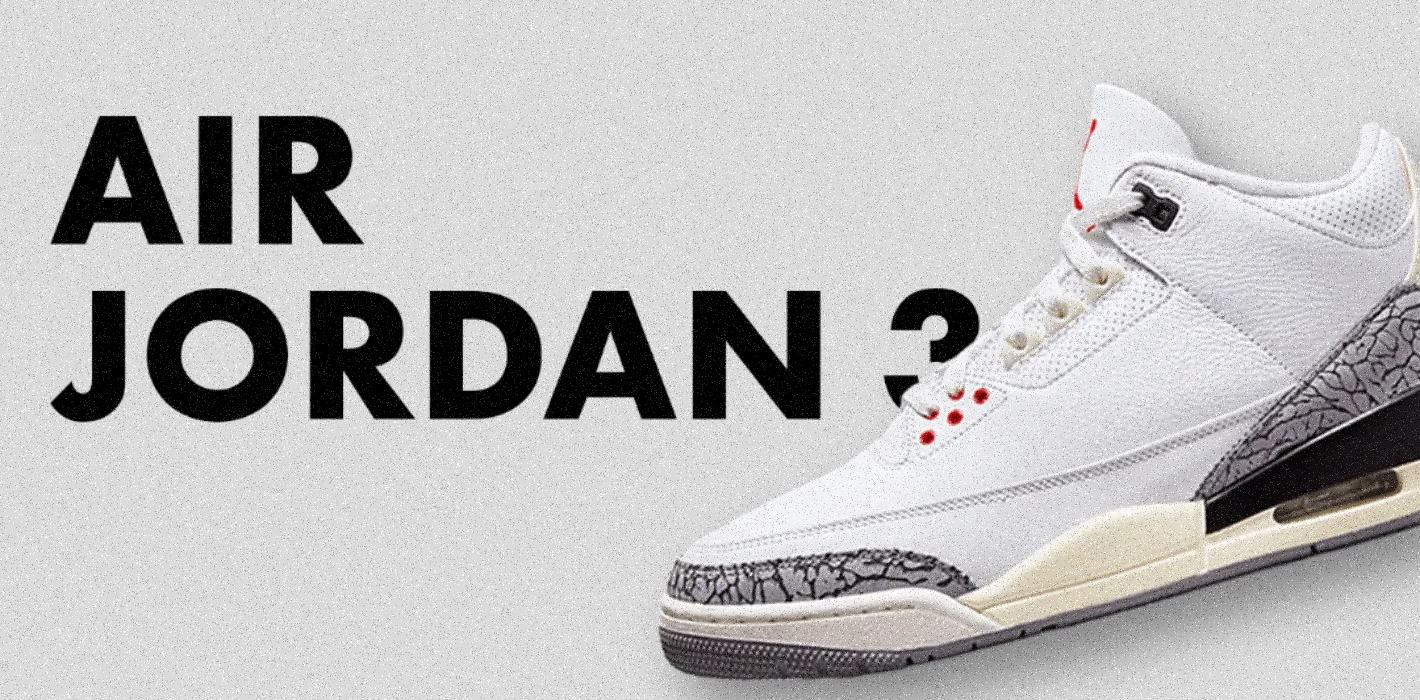
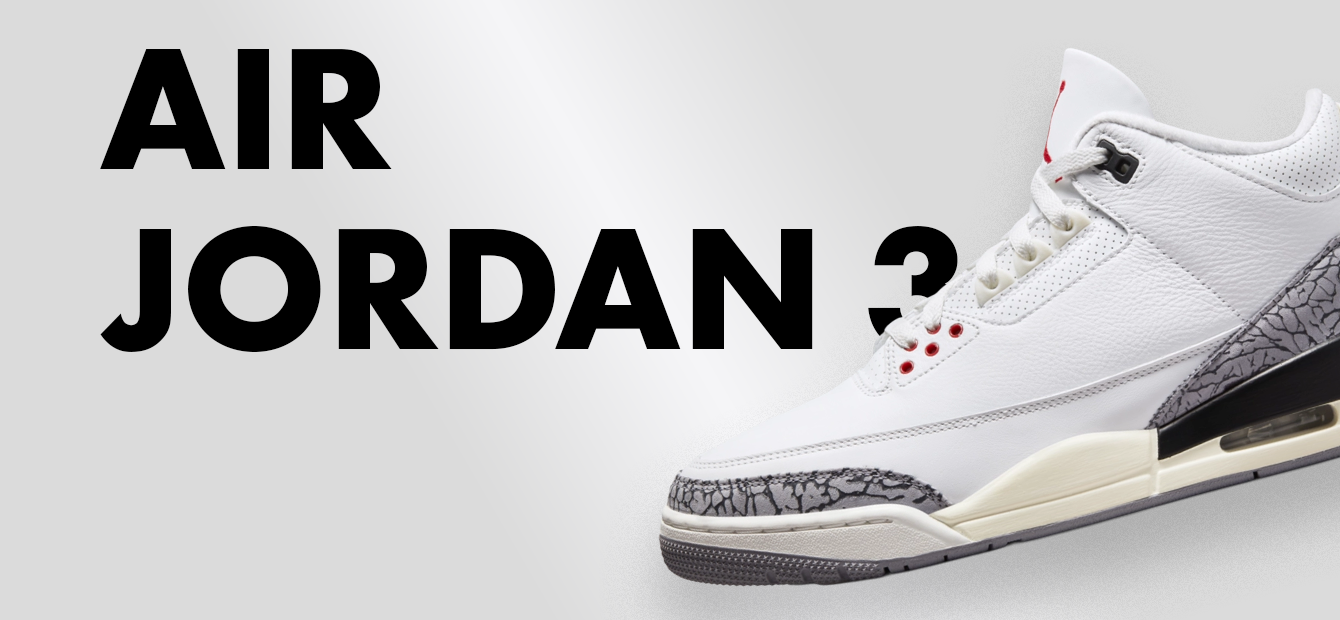
fix img hero responsive closure

Changed region(s): [[0.0306, 0.0, 1.0, 1.0]]

diff --git a/nike-off-white.html b/nike-off-white.html
@@ -46,7 +46,11 @@
             </nav>
             <section>
                 <div class="hero">
-                    <img src="img/hero/nike-off-white-hero.png" alt="">
+                    <img src="img/hero/nike-off-white-hero.png" alt="" class="hero-max">
+                    <img src="img/hero/hero-1240/nike-off-white-hero-1240.png" alt="" class="hero-1240">
+                    <img src="img/hero/hero-1000/nike-off-white-hero-1000.png" alt="" class="hero-1000">
+                    <img src="img/hero/hero-680/nike-off-white-hero-680.png" alt="" class="hero-680">
+                    <img src="img/hero/hero-460/nike-off-white-hero-460.png" alt="" class="hero-460">
                 </div>
             </section>
         </header>

diff --git a/nike-fragment.html b/nike-fragment.html
@@ -46,7 +46,11 @@
             </nav>
             <section>
                 <div class="hero">
-                    <img src="img/hero/nike-fragment-hero.png" alt="">
+                    <img src="img/hero/nike-fragment-hero.png" alt="" class="hero-max">
+                    <img src="img/hero/hero-1240/nike-fragment-hero-1240.png" alt="" class="hero-1240">
+                    <img src="img/hero/hero-1000/nike-fragment-hero-1000.png" alt="" class="hero-1000">
+                    <img src="img/hero/hero-680/nike-fragment-hero-680.png" alt="" class="hero-680">
+                    <img src="img/hero/hero-460/nike-fragment-hero-460.png" alt="" class="hero-460">
                 </div>
             </section>
         </header>

diff --git a/air-jordan-1.html b/air-jordan-1.html
@@ -46,7 +46,11 @@
             </nav>
             <section>
                 <div class="hero">
-                    <img src="img/hero/air-jordan-1-hero.png" alt="">
+                    <img src="img/hero/air-jordan-1-hero.png" alt="" class="hero-max">
+                    <img src="img/hero/hero-1240/air-jordan-1-hero-1240.png" alt="" class="hero-1240">
+                    <img src="img/hero/hero-1000/air-jordan-1-hero-1000.png" alt="" class="hero-1000">
+                    <img src="img/hero/hero-680/air-jordan-1-hero-680.png" alt="" class="hero-680">
+                    <img src="img/hero/hero-460/air-jordan-1-hero-460.png" alt="" class="hero-460">
                 </div>
             </section>
         </header>

diff --git a/air-jordan-3.html b/air-jordan-3.html
@@ -46,7 +46,11 @@
             </nav>
             <section>
                 <div class="hero">
-                    <img src="img/hero/air-jordan-3-hero.png" alt="">
+                    <img src="img/hero/air-jordan-3-hero.png" alt="" class="hero-max">
+                    <img src="img/hero/hero-1240/air-jordan-3-hero-1240.png" alt="" class="hero-1240">
+                    <img src="img/hero/hero-1000/air-jordan-3-hero-1000.png" alt="" class="hero-1000">
+                    <img src="img/hero/hero-680/air-jordan-3-hero-680.png" alt="" class="hero-680">
+                    <img src="img/hero/hero-460/air-jordan-3-hero-460.png" alt="" class="hero-460">
                 </div>
             </section>
         </header>

diff --git a/air-jordan-4.html b/air-jordan-4.html
@@ -46,7 +46,11 @@
             </nav>
             <section>
                 <div class="hero">
-                    <img src="img/hero/air-jordan-4-hero.png" alt="">
+                    <img src="img/hero/air-jordan-4-hero.png" alt="" class="hero-max">
+                    <img src="img/hero/hero-1240/air-jordan-4-hero-1240.png" alt="" class="hero-1240">
+                    <img src="img/hero/hero-1000/air-jordan-4-hero-1000.png" alt="" class="hero-1000">
+                    <img src="img/hero/hero-680/air-jordan-4-hero-680.png" alt="" class="hero-680">
+                    <img src="img/hero/hero-460/air-jordan-4-hero-460.png" alt="" class="hero-460">
                 </div>
             </section>
         </header>

diff --git a/nike-supreme.html b/nike-supreme.html
@@ -46,7 +46,11 @@
             </nav>
             <section>
                 <div class="hero">
-                    <img src="img/hero/nike-supreme-hero.png" alt="">
+                    <img src="img/hero/nike-supreme-hero.png" alt="" class="hero-max">
+                    <img src="img/hero/hero-1240/nike-supreme-hero-1240.png" alt="" class="hero-1240">
+                    <img src="img/hero/hero-1000/nike-supreme-hero-1000.png" alt="" class="hero-1000">
+                    <img src="img/hero/hero-680/nike-supreme-hero-680.png" alt="" class="hero-680">
+                    <img src="img/hero/hero-460/nike-supreme-hero-460.png" alt="" class="hero-460">
                 </div>
             </section>
         </header>

diff --git a/air-force-1.html b/air-force-1.html
@@ -46,7 +46,11 @@
             </nav>
             <section>
                 <div class="hero">
-                    <img src="img/hero/air-force-1-hero.png" alt="">
+                    <img src="img/hero/air-force-1-hero.png" alt="" class="hero-max">
+                    <img src="img/hero/hero-1240/air-force-1-hero-1240.png" alt="" class="hero-1240">
+                    <img src="img/hero/hero-1000/air-force-1-hero-1000.png" alt="" class="hero-1000">
+                    <img src="img/hero/hero-680/air-force-1-hero-680.png" alt="" class="hero-680">
+                    <img src="img/hero/hero-460/air-force-1-hero-460.png" alt="" class="hero-460">
                 </div>
             </section>
         </header>

diff --git a/nike-ambush.html b/nike-ambush.html
@@ -46,7 +46,11 @@
             </nav>
             <section>
                 <div class="hero">
-                    <img src="img/hero/nike-ambush-hero.png" alt="">
+                    <img src="img/hero/nike-ambush-hero.png" alt="" class="hero-max">
+                    <img src="img/hero/hero-1240/nike-ambush-hero-1240.png" alt="" class="hero-1240">
+                    <img src="img/hero/hero-1000/nike-ambush-hero-1000.png" alt="" class="hero-1000">
+                    <img src="img/hero/hero-680/nike-ambush-hero-680.png" alt="" class="hero-680">
+                    <img src="img/hero/hero-460/nike-ambush-hero-460.png" alt="" class="hero-460">
                 </div>
             </section>
         </header>

diff --git a/nike-travis.html b/nike-travis.html
@@ -46,7 +46,11 @@
             </nav>
             <section>
                 <div class="hero">
-                    <img src="img/hero/nike-travis-hero.png" alt="">
+                    <img src="img/hero/nike-travis-hero.png" alt="" class="hero-max">
+                    <img src="img/hero/hero-1240/nike-travis-hero-1240.png" alt="" class="hero-1240">
+                    <img src="img/hero/hero-1000/nike-travis-hero-1000.png" alt="" class="hero-1000">
+                    <img src="img/hero/hero-680/nike-travis-hero-680.png" alt="" class="hero-680">
+                    <img src="img/hero/hero-460/nike-travis-hero-460.png" alt="" class="hero-460">
                 </div>
             </section>
         </header>

diff --git a/nike-nocta.html b/nike-nocta.html
@@ -46,7 +46,11 @@
             </nav>
             <section>
                 <div class="hero">
-                    <img src="img/hero/nike-nocta-hero.png" alt="">
+                    <img src="img/hero/nike-nocta-hero.png" alt="" class="hero-max">
+                    <img src="img/hero/hero-1240/nike-nocta-hero-1240.png" alt="" class="hero-1240">
+                    <img src="img/hero/hero-1000/nike-nocta-hero-1000.png" alt="" class="hero-1000">
+                    <img src="img/hero/hero-680/nike-nocta-hero-680.png" alt="" class="hero-680">
+                    <img src="img/hero/hero-460/nike-nocta-hero-460.png" alt="" class="hero-460">
                 </div>
             </section>
         </header>

diff --git a/air-max-1.html b/air-max-1.html
@@ -46,7 +46,11 @@
             </nav>
             <section>
                 <div class="hero">
-                    <img src="img/hero/air-max-1-hero.png" alt="">
+                    <img src="img/hero/air-max-1-hero.png" alt="" class="hero-max">
+                    <img src="img/hero/hero-1240/air-max-1-hero-1240.png" alt="" class="hero-1240">
+                    <img src="img/hero/hero-1000/air-max-1-hero-1000.png" alt="" class="hero-1000">
+                    <img src="img/hero/hero-680/air-max-1-hero-680.png" alt="" class="hero-680">
+                    <img src="img/hero/hero-460/air-max-1-hero-460.png" alt="" class="hero-460">
                 </div>
             </section>
         </header>

diff --git a/blazer.html b/blazer.html
@@ -46,7 +46,11 @@
             </nav>
             <section>
                 <div class="hero">
-                    <img src="img/hero/blazer-hero.png" alt="">
+                    <img src="img/hero/blazer-hero.png" alt="" class="hero-max">
+                    <img src="img/hero/hero-1240/blazer-hero-1240.png" alt="" class="hero-1240">
+                    <img src="img/hero/hero-1000/blazer-hero-1000.png" alt="" class="hero-1000">
+                    <img src="img/hero/hero-680/blazer-hero-680.png" alt="" class="hero-680">
+                    <img src="img/hero/hero-460/blazer-hero-460.png" alt="" class="hero-460">
                 </div>
             </section>
         </header>
